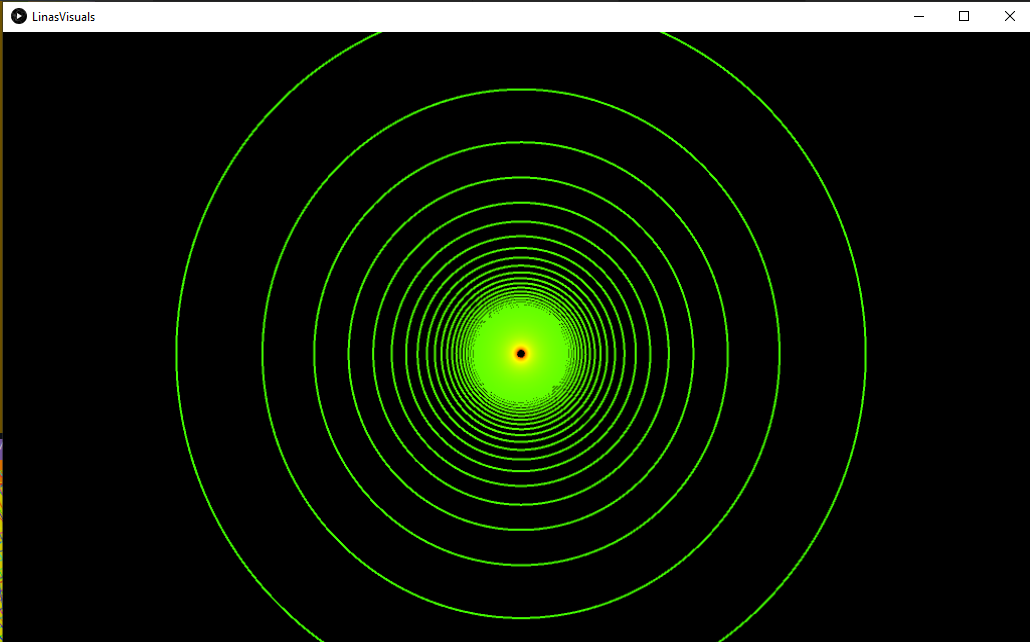
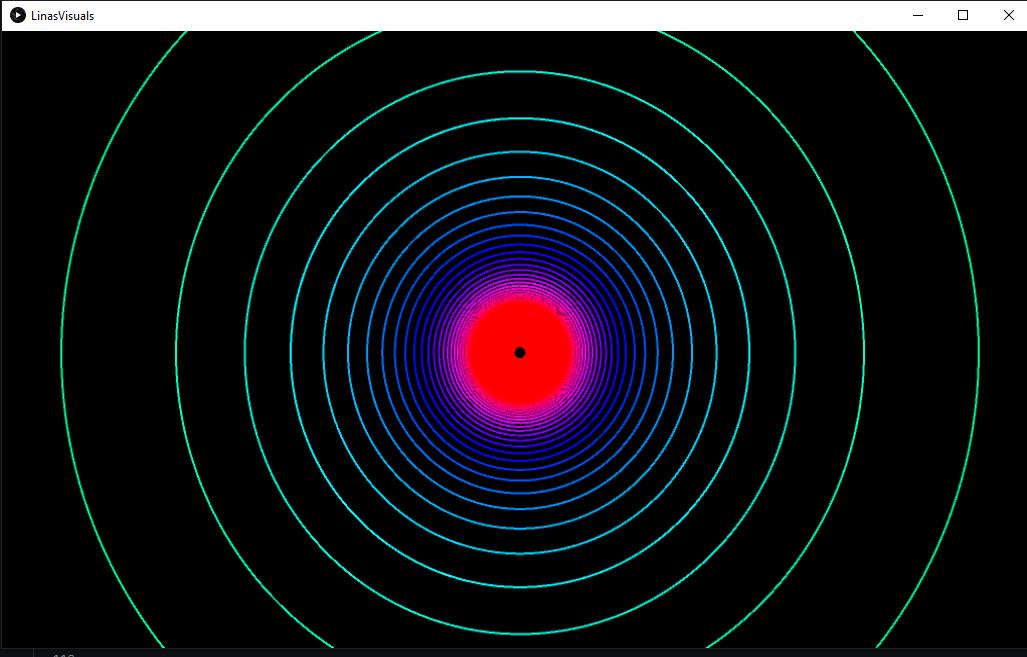
removed the pyramid

diff --git a/java/src/C19366191/Sphere.java b/java/src/C19366191/Sphere.java
@@ -12,6 +12,7 @@ public class Sphere extends PApplet
     float angle = 0;
     float largerSphere = 0;
     float smallerSphere = 0;
+    float tinySphere = 0;
     float boxSize;
 
     float theta = 0;
@@ -51,7 +52,10 @@ public class Sphere extends PApplet
         largerSphere = lerp(largerSphere, boxSize, 0.1f);  
         
         boxSize = 10 + (lv.getAmplitude() * 300);
-        smallerSphere = lerp(smallerSphere, boxSize, 0.05f);    
+        smallerSphere = lerp(smallerSphere, boxSize, 0.025f); 
+        
+        boxSize = 10 + (lv.getAmplitude() * 100);
+        tinySphere = lerp(tinySphere, boxSize, 0.025f);    
 
         lv.pushMatrix();
 
@@ -63,6 +67,8 @@ public class Sphere extends PApplet
         lv.sphere(largerSphere);
 
         lv.translate(0, 0, 0); //places sphere in the middle
+
+        //changes the colour of the second sphere
         lv.stroke(PApplet.map(lv.getSmoothedAmplitude(), 0, 1, 200, 0)
             , 255
             , 255
@@ -70,9 +76,19 @@ public class Sphere extends PApplet
         lv.rotateY(angle);
         lv.rotateX(angle);
         lv.rotateZ(angle);
-        //lv.strokeWeight(1);
+       
         
         lv.sphere(smallerSphere);
+
+
+        lv.stroke(PApplet.map(lv.getSmoothedAmplitude(), 0, 1, 1000, 150)
+            , 255
+            , 255
+        );
+        lv.rotateY(angle);
+        lv.rotateX(angle);
+        lv.rotateZ(angle);
+        lv.sphere(tinySphere);
 
         lv.popMatrix();
 

diff --git a/java/src/C19366191/LinasVisuals.java b/java/src/C19366191/LinasVisuals.java
@@ -9,7 +9,6 @@ public class LinasVisuals extends Visual
 {
     Wave wave;
     Sphere sphere;
-    Pryamid pyramid;
     Cube cube;
     Circle circle;
 
@@ -30,7 +29,6 @@ public class LinasVisuals extends Visual
 
         wave = new Wave(this);
         sphere = new Sphere(this);
-        pyramid = new Pryamid(this);
         cube = new Cube(this);
         circle = new Circle(this);
 
@@ -78,14 +76,15 @@ public class LinasVisuals extends Visual
         {
             sphere.render();
             
+            
      
         }
         if (key == '2')
         {
             
-            //pyramid.render();
-            circle.render();
             
+            circle.render();
+                     
            
                 
         }
@@ -93,7 +92,10 @@ public class LinasVisuals extends Visual
         {
             cube.render();
             wave.render();
+            
         }
+        
+
         
   
 

diff --git a/java/src/C19366191/Circle.java b/java/src/C19366191/Circle.java
@@ -27,17 +27,14 @@ public class Circle extends PApplet{
         lv.calculateAverageAmplitude();
        
         float size = 10 + (lv.getSmoothedAmplitude() * intensity);
-        smooth_size = lerp(smooth_size, size, 0.1f);
+        smooth_size = lerp(smooth_size, size, 0.51f);
         
         for(int i = 0 ; i < lv.getAudioBuffer().size() ; i ++)
         {
-            // lv.stroke(PApplet.map(i, 0, lv.getAudioBuffer().size(), 0, 255)
-            //     , 255
-            //     , 255
-            // );
+            
             lv.ellipse(i , i, smooth_size, smooth_size);
             lv.translate(-1 , 0, -25);
-            lv.stroke(PApplet.map(lv.getSmoothedAmplitude(), 0, 1, 0, 255-i) //reduces the colour of the inner circles
+            lv.stroke(PApplet.map(lv.getSmoothedAmplitude(), 0, 1, i*10, 255-i) //reduces the colour of the inner circles
                 , 255
                 , 255
                 );

diff --git a/java/src/C19366191/Wave.java b/java/src/C19366191/Wave.java
@@ -16,11 +16,11 @@ public class Wave
     public void render()
     {
         lv.camera(0, 0, 0, 0, 0, -1, 0, 1, 0);
-        lv.translate(-75, 0, -100);
+        lv.translate(-87, 0, -100);
 
 
         lv.colorMode(PApplet.HSB);
-        for(int i = 0 ; i < 200; i ++)
+        for(int i = 0 ; i < lv.getAudioBuffer().size(); i ++)
         {
             lv.stroke(
                 PApplet.map(i, 0, 200, 0, 255)

diff --git a/java/src/C19366191/Cube.java b/java/src/C19366191/Cube.java
@@ -45,6 +45,7 @@ public class Cube extends PApplet {
         
 
         angle += 0.0255f;
+        
 
     }
     
